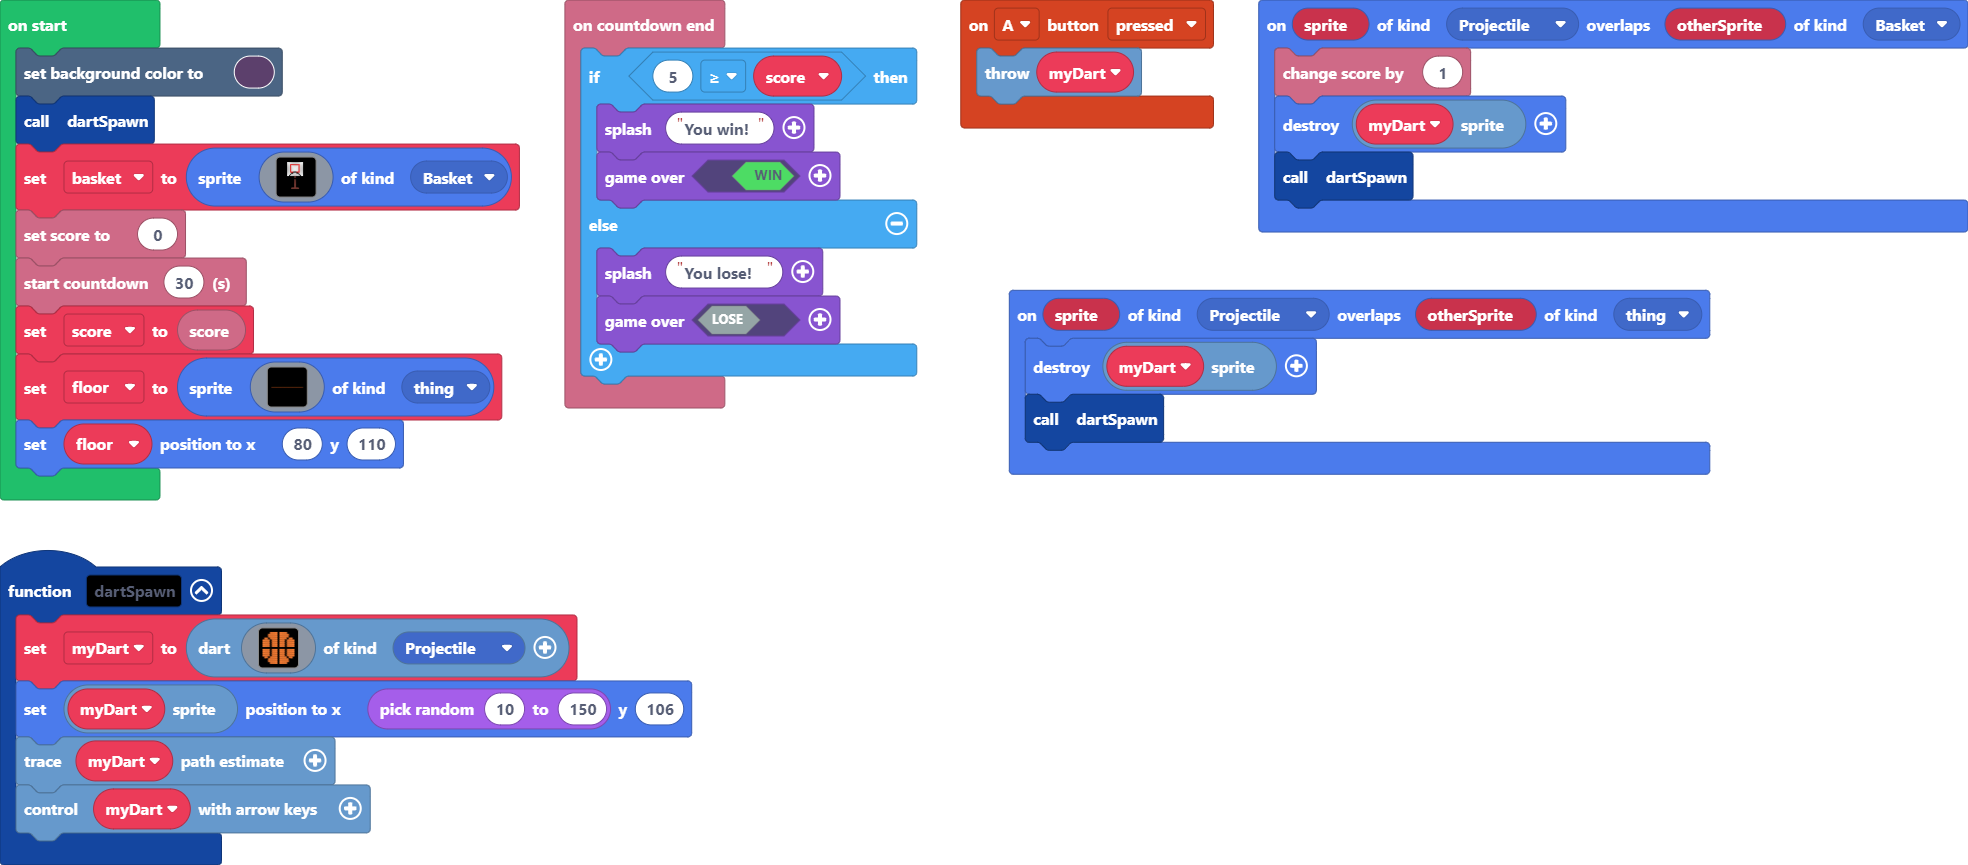
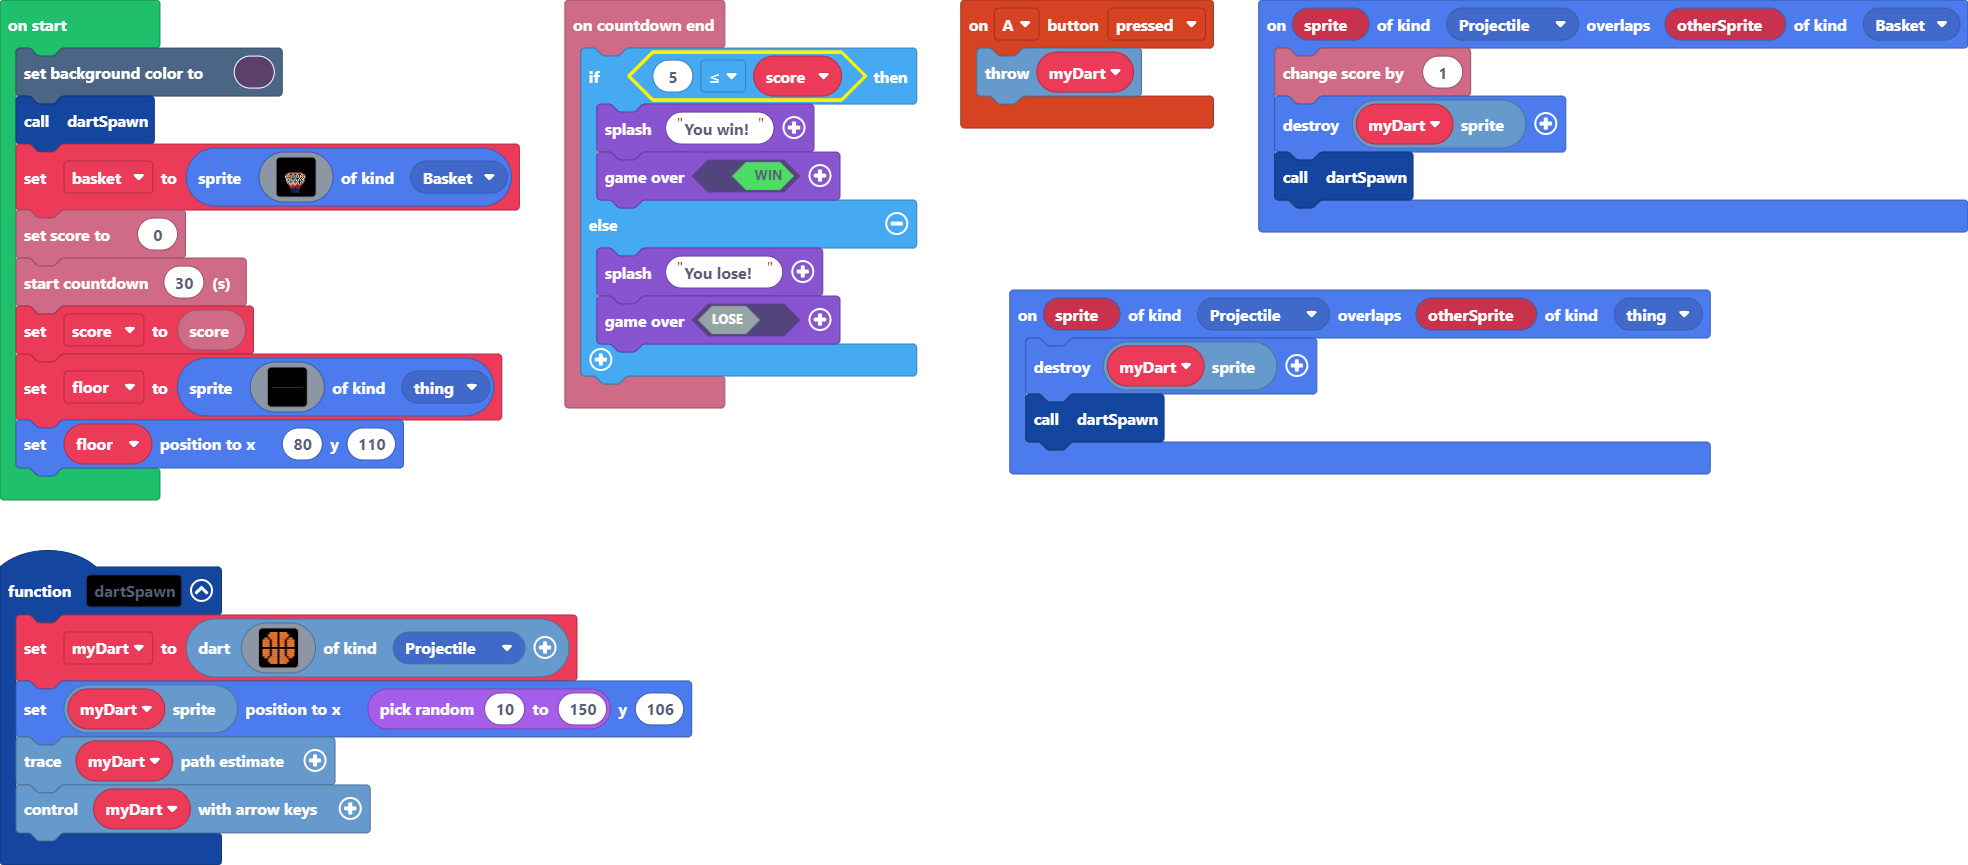
Update main.blocks, main.ts

diff --git a/main.ts b/main.ts
@@ -6,7 +6,7 @@ controller.A.onEvent(ControllerButtonEvent.Pressed, function () {
     myDart.throwDart()
 })
 info.onCountdownEnd(function () {
-    if (5 >= score) {
+    if (5 <= score) {
         game.splash("You win!")
         game.over(true)
     } else {
@@ -52,36 +52,36 @@ let score = 0
 scene.setBackgroundColor(12)
 dartSpawn()
 let basket = sprites.create(img`
-    ................
-    111111111111111.
-    111111111111111.
-    111222222222111.
-    111211111112111.
-    111211111112111.
-    111211111112111.
-    111211111112111.
-    111211111112111.
-    111211111112111.
-    111222fff222111.
-    1111ff111ff1111.
-    111f1111111f111.
-    11f111111111f11.
-    ...f...e...f....
-    ....ff.e.ff.....
-    ......fff.......
-    .......e........
-    .......e........
-    .......e........
-    .......e........
-    .......e........
-    .......e........
-    .......e........
-    .......e........
-    ....eeeeeee.....
-    ................
-    ................
-    ................
-    ................
+    ...................
+    ...................
+    ...................
+    ...................
+    ...................
+    ...................
+    ...................
+    ...................
+    ...................
+    ...................
+    ...................
+    ...4444444444444...
+    .441...1...1...144.
+    4.1.1.1.1.1.1.1.1.4
+    14441.1.1.1.1.14441
+    1.1.44444444444.1.1
+    .1.1.1...1...1.1.1.
+    .11.1.1.1.1.1.1.11.
+    .1..1.1.1.1.1.1..1.
+    ..11...1...1...11..
+    ..1.1.1.1.1.1.1.1..
+    ...21.1.1.1.1.12...
+    ...2.1.2.1.2.1.2...
+    ....2.2.2.2.2.2....
+    .....22.2.2.22.....
+    .....2.2.8.2.2.....
+    ......8.8.8.8......
+    ......8.8.8.8......
+    ......8.8.8.8......
+    ......88.8.88......
     `, SpriteKind.Basket)
 info.setScore(0)
 info.startCountdown(30)
